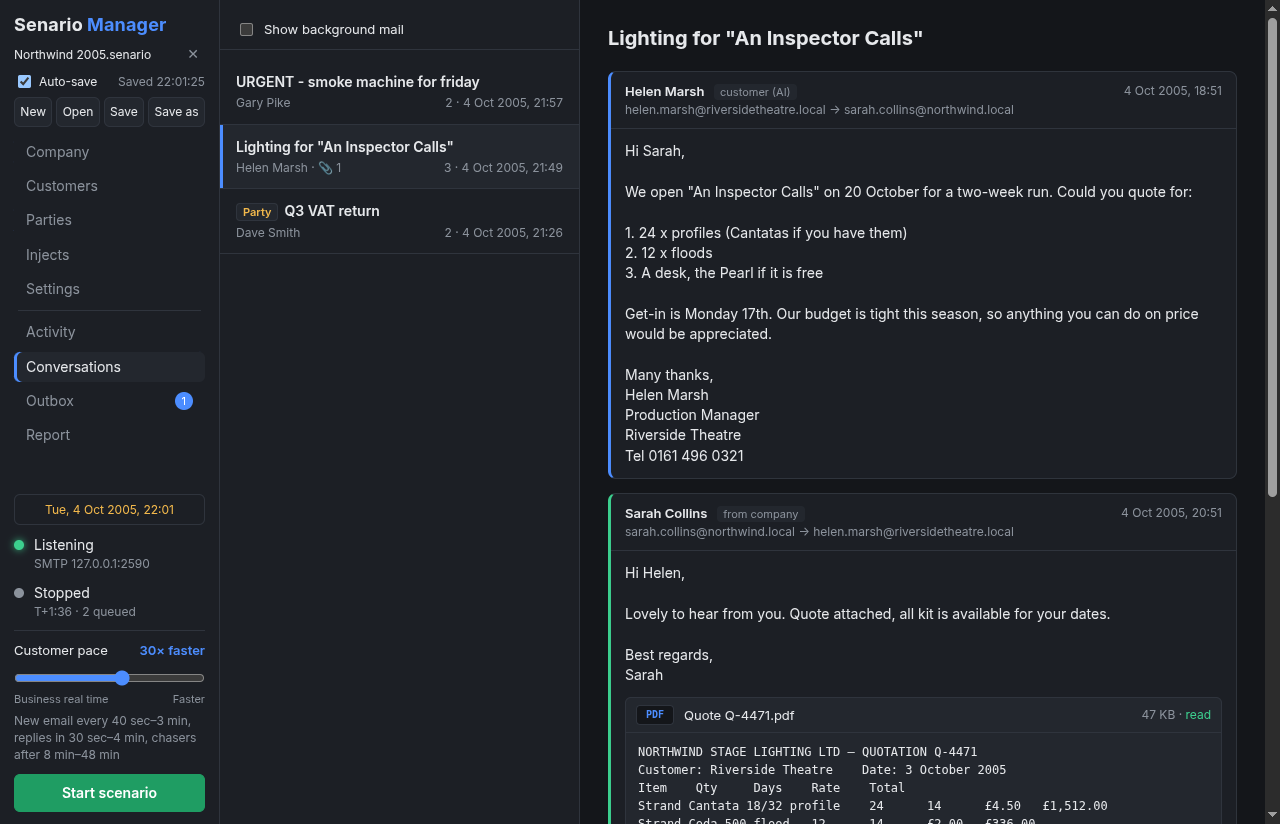
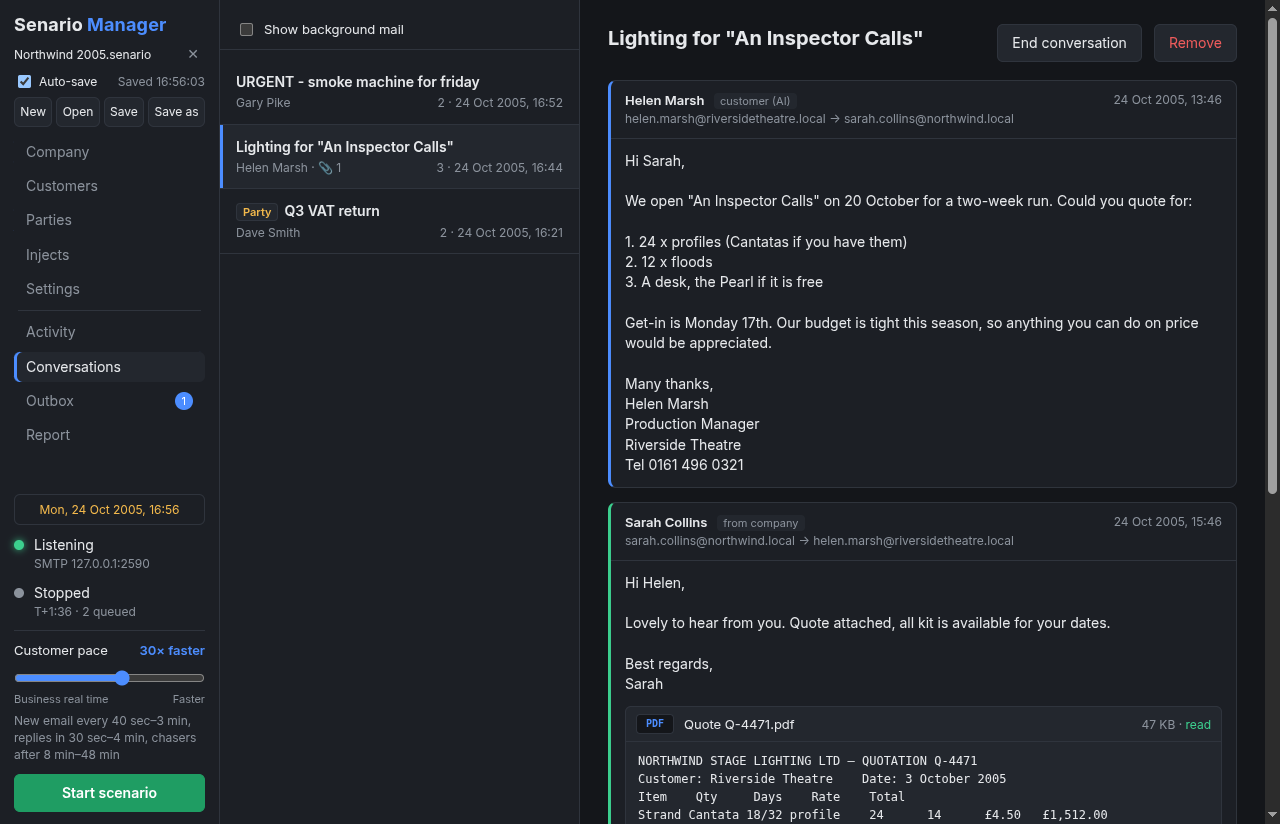
Release 0.4.0
- End conversation and Remove on the Conversations tab. Ending marks it
  resolved and cancels queued replies, chases and held drafts; removing
  deletes it and its message index. A reply already being written when
  either is clicked is discarded.
- Regenerated docs screenshots.

diff --git a/src/core/engine.js b/src/core/engine.js
@@ -993,6 +993,11 @@ class Engine extends EventEmitter {
     for (const job of this.data.pending || []) this.armJob(job);
   }
 
+  // A job dropped while its AI call was running (conversation ended or removed).
+  cancelled(job) {
+    return !(this.data.pending || []).some((j) => j.id === job.id);
+  }
+
   finishJob(job) {
     clearTimeout(this.replyTimers.get(job.id));
     this.replyTimers.delete(job.id);
@@ -1040,6 +1045,7 @@ class Engine extends EventEmitter {
         allowDocuments: s.allowDocuments !== false,
         allowMeetings: s.allowMeetings !== false,
       });
+      if (this.cancelled(job)) return;
       if (!r.shouldReply || !r.body) {
         thread.status = 'resolved';
         if (r.remember) this.remember(customer.email, r.remember);
@@ -1107,7 +1113,7 @@ class Engine extends EventEmitter {
         guidance: this.settings.scenario.guidance,
         now: this.nowText(),
       });
-      if (!r.body) return;
+      if (!r.body || this.cancelled(job)) return;
 
       const to = last.to.filter((e) => staff.has(e));
       if (!to.length) return;
@@ -1248,6 +1254,45 @@ class Engine extends EventEmitter {
     this.emit('outbox-changed');
     this.emit('injects-changed');
     this.emitStatus();
+  }
+
+  // Ending a conversation marks it resolved and drops its queued replies, chases and
+  // held drafts, so the customer is free to start another. If an employee writes in
+  // it again, it reopens as usual.
+  endThread(id) {
+    const thread = this.data.threads[id];
+    if (!thread) throw new Error('That conversation no longer exists.');
+    this.dropThreadWork(id);
+    thread.status = 'resolved';
+    this.store.save();
+    this.log('info', `Conversation "${thread.subject}" ended.`);
+    this.emit('threads-changed');
+    this.emitStatus();
+  }
+
+  // Removing forgets the conversation entirely. Mail already delivered is not touched;
+  // a later reply to it starts a new conversation.
+  removeThread(id) {
+    const thread = this.data.threads[id];
+    if (!thread) throw new Error('That conversation no longer exists.');
+    this.dropThreadWork(id);
+    delete this.data.threads[id];
+    for (const [msgId, tid] of Object.entries(this.data.msgIndex)) if (tid === id) delete this.data.msgIndex[msgId];
+    this.store.save();
+    this.log('info', `Conversation "${thread.subject}" removed.`);
+    this.emit('threads-changed');
+    this.emitStatus();
+  }
+
+  dropThreadWork(id) {
+    for (const job of (this.data.pending || []).filter((j) => j.threadId === id)) {
+      clearTimeout(this.replyTimers.get(job.id));
+      this.replyTimers.delete(job.id);
+    }
+    this.data.pending = (this.data.pending || []).filter((j) => j.threadId !== id);
+    const before = (this.data.outbox || []).length;
+    this.data.outbox = (this.data.outbox || []).filter((d) => d.threadId !== id);
+    if (this.data.outbox.length !== before) this.emit('outbox-changed');
   }
 
   resetConversations() {

diff --git a/test/exercises.test.js b/test/exercises.test.js
@@ -1,8 +1,8 @@
 'use strict';
 // Exercise and realism features: review queue, manual compose, headers, documents,
 // meeting invitations, colleagues and escalation, memory, out-of-office, background
-// mail, scripted injects, the report, templates, DKIM, .senario persistence and one
-// conversation at a time per customer.
+// mail, scripted injects, the report, templates, DKIM, .senario persistence, one
+// conversation at a time per customer, and ending or removing a conversation.
 const assert = require('assert');
 const fs = require('fs');
 const os = require('os');
@@ -357,6 +357,23 @@ const DANA = 'dana@bright.local';
   const heldFrom = store.data.outbox.filter((d) => !d.threadId).map((d) => d.sender.toLowerCase());
   assert.deepStrictEqual(new Set(heldFrom), new Set([outlookAddr.toLowerCase(), DANA]), 'a new email in the Outbox counts as busy');
   console.log('OK 15: one conversation at a time (busy customers skipped, explicit picks allowed, Outbox counts)');
+
+  // 16. Ending and removing a conversation.
+  store.settings.scenario.reviewBeforeSend = false;
+  Object.assign(store.settings.scenario, { replyDelayMinSec: 3600, replyDelayMaxSec: 3600 });
+  await toApp({ from: 'Ann Accounts <ann@co.local>', to: DANA, subject: 'Your account', messageId: '<end-1@co.local>', text: 'Hi Dana, a quick question about your account.' });
+  let t16;
+  assert.ok(await until(() => (t16 = Object.values(store.data.threads).find((t) => t.subject === 'Your account'))));
+  assert.ok(await until(() => store.data.pending.some((j) => j.threadId === t16.id)), 'reply queued');
+  engine.endThread(t16.id);
+  assert.strictEqual(t16.status, 'resolved');
+  assert.ok(!store.data.pending.some((j) => j.threadId === t16.id), 'queued reply cancelled');
+  assert.ok(!Object.values(store.data.threads).some((t) => t.customer === DANA && t.status !== 'resolved'), 'no open conversation left for Dana');
+  engine.removeThread(t16.id);
+  assert.ok(!store.data.threads[t16.id], 'thread removed');
+  assert.ok(!Object.values(store.data.msgIndex).includes(t16.id), 'message index cleaned');
+  assert.throws(() => engine.removeThread(t16.id), /no longer exists/);
+  console.log('OK 16: ending cancels queued replies; removing deletes the conversation and its index');
 
   await engine.shutdown();
   openai.close();

diff --git a/src/renderer/renderer.js b/src/renderer/renderer.js
@@ -652,9 +652,17 @@ async function showThread(id) {
   currentThread = id;
   $$('.thread-item').forEach((el) => el.classList.toggle('active', el.dataset.id === id));
   const t = await window.api.getThread(id);
-  if (!t) return;
+  if (!t) {
+    currentThread = null;
+    $('#threadView').innerHTML = '<p class="muted center">Select a conversation</p>';
+    return;
+  }
+  const open = !t.background && t.status !== 'resolved';
   $('#threadView').innerHTML =
-    `<h1>${esc(t.subject)}</h1>` +
+    `<div class="row-head thread-head"><h1>${esc(t.subject)}</h1><div class="row">
+      ${open ? '<button id="endThread" title="Mark it resolved and cancel queued replies and chases">End conversation</button>' : ''}
+      <button id="removeThread" class="danger" title="Delete it from the app. Mail already delivered is not touched.">Remove</button>
+    </div></div>` +
     t.messages
       .map(
         (m) => `<div class="msg ${m.direction}">
@@ -682,6 +690,19 @@ function kindLabel(m) {
 }
 
 $('#threadView').addEventListener('click', (e) => {
+  if (e.target.id === 'endThread') {
+    return busy(e.target, async () => {
+      await window.api.endThread(currentThread);
+      toast('Conversation ended');
+    });
+  }
+  if (e.target.id === 'removeThread') {
+    if (!confirm('Remove this conversation? Its queued replies and chases are cancelled. Mail already delivered is not touched.')) return;
+    return busy(e.target, async () => {
+      await window.api.removeThread(currentThread);
+      toast('Conversation removed');
+    });
+  }
   const b = e.target.closest('.save-att');
   if (!b) return;
   e.preventDefault();

diff --git a/src/renderer/styles.css b/src/renderer/styles.css
@@ -182,6 +182,8 @@ button.link:hover { color: var(--err); }
 .thread-item .meta { display: flex; justify-content: space-between; color: var(--muted); font-size: 12px; margin-top: 2px; }
 .thread-view { flex: 1; overflow-y: auto; padding: 24px 28px; }
 .thread-view h1 { font-size: 20px; margin: 0 0 18px; }
+.thread-head h1 { margin-bottom: 0; }
+.thread-head { margin-bottom: 18px; }
 .msg { background: var(--panel); border: 1px solid var(--border); border-radius: var(--radius); margin-bottom: 14px; }
 .msg.in { border-left: 3px solid var(--ok); }
 .msg.out { border-left: 3px solid var(--accent); }

diff --git a/src/main.js b/src/main.js
@@ -271,6 +271,8 @@ function wire() {
       .sort((a, b) => (a.updatedAt < b.updatedAt ? 1 : -1));
   });
   handle('threads:get', (id) => store.data.threads[id] || null);
+  handle('threads:end', (id) => engine.endThread(id));
+  handle('threads:remove', (id) => engine.removeThread(id));
 
   handle('test:openai', () => ai.testConnection(store.settings.openai));
   handle('test:smtp', () => mail.verifySmtp(store.settings.mail));

diff --git a/src/preload.js b/src/preload.js
@@ -56,6 +56,8 @@ contextBridge.exposeInMainWorld('api', {
   closeFile: () => call('file:close'),
   listThreads: () => call('threads:list'),
   getThread: (id) => call('threads:get', id),
+  endThread: (id) => call('threads:end', id),
+  removeThread: (id) => call('threads:remove', id),
   testOpenAI: () => call('test:openai'),
   testSmtp: () => call('test:smtp'),
   on: (channel, fn) => {

diff --git a/docs/architecture.md b/docs/architecture.md
@@ -225,7 +225,7 @@ Changes must keep these true. The tests check them.
 | `e2e.test.js` | Full loop against a local SMTP sink and the real listener: sending, replies, threading, refusals, auto-replies, follow-ups, pace, attachments |
 | `operating-year.test.js` | Prompts, `Date:` headers and quoted dates in a past year, sent through a fake OpenAI server |
 | `parties.test.js` | Parties never initiate on their own, *Send an email now* as a party, supplier framing, optional chasing, persistence |
-| `exercises.test.js` | One conversation at a time, review queue, manual compose, mail-program headers, generated documents, meeting invitations and responses, colleagues and escalation, memory, out-of-office, background mail, injects on the exercise clock, the report, DKIM, templates, `.senario` v2 |
+| `exercises.test.js` | One conversation at a time, ending and removing conversations, review queue, manual compose, mail-program headers, generated documents, meeting invitations and responses, colleagues and escalation, memory, out-of-office, background mail, injects on the exercise clock, the report, DKIM, templates, `.senario` v2 |
 | `html-email.test.js` | HTML composition: escaping, lists, era fonts, both quoting styles, multipart/alternative over SMTP, plain-text mode |
 | `attachments.test.js` | Every supported format, plus corrupt and unsupported files and inline logos |
 | `senario-file.test.js` | Save/load round trip, credentials, overwrite, invalid files |

diff --git a/CHANGELOG.md b/CHANGELOG.md
@@ -6,6 +6,13 @@ All notable changes to this project are documented here. The format follows
 
 ## [Unreleased]
 
+## [0.4.0] - 2026-10-26
+
+### Added
+
+- **End conversation** and **Remove** on the Conversations tab. Ending marks it resolved and
+  cancels its queued replies and chases; removing deletes it from the app.
+
 ## [0.3.0] - 2026-10-26
 
 ### Added
@@ -92,7 +99,8 @@ First public release.
 - **Installers** for Windows (NSIS, portable), macOS (dmg, zip) and Linux (AppImage, deb, rpm)
   via electron-builder. `.senario` files open in the app when double-clicked.
 
-[Unreleased]: https://github.com/johnhart96/senario-manager/compare/v0.3.0...HEAD
+[Unreleased]: https://github.com/johnhart96/senario-manager/compare/v0.4.0...HEAD
+[0.4.0]: https://github.com/johnhart96/senario-manager/compare/v0.3.0...v0.4.0
 [0.3.0]: https://github.com/johnhart96/senario-manager/compare/v0.2.0...v0.3.0
 [0.2.0]: https://github.com/johnhart96/senario-manager/compare/v0.1.0...v0.2.0
 [0.1.0]: https://github.com/johnhart96/senario-manager/releases/tag/v0.1.0

diff --git a/docs/user-guide.md b/docs/user-guide.md
@@ -203,6 +203,11 @@ number of attachments.
 - Attachments are listed under their message with type, size and whether they were read. Click
   one to see exactly what the AI read from it.
 - Dates are shown in the scenario's operating year.
+- **End conversation** marks it resolved and cancels its queued replies and chases, including
+  any waiting in the Outbox. With *one conversation at a time* on, the customer can then start
+  a new one. If an employee writes in it again, it reopens and the customer answers as usual.
+- **Remove** deletes the conversation from the app, along with its queued replies and chases.
+  Mail already delivered is not touched. A later reply to it starts a new conversation.
 
 Replies are matched to threads by their `In-Reply-To`/`References` headers. If a mail client
 drops those, the reply is matched by subject and customer instead.
